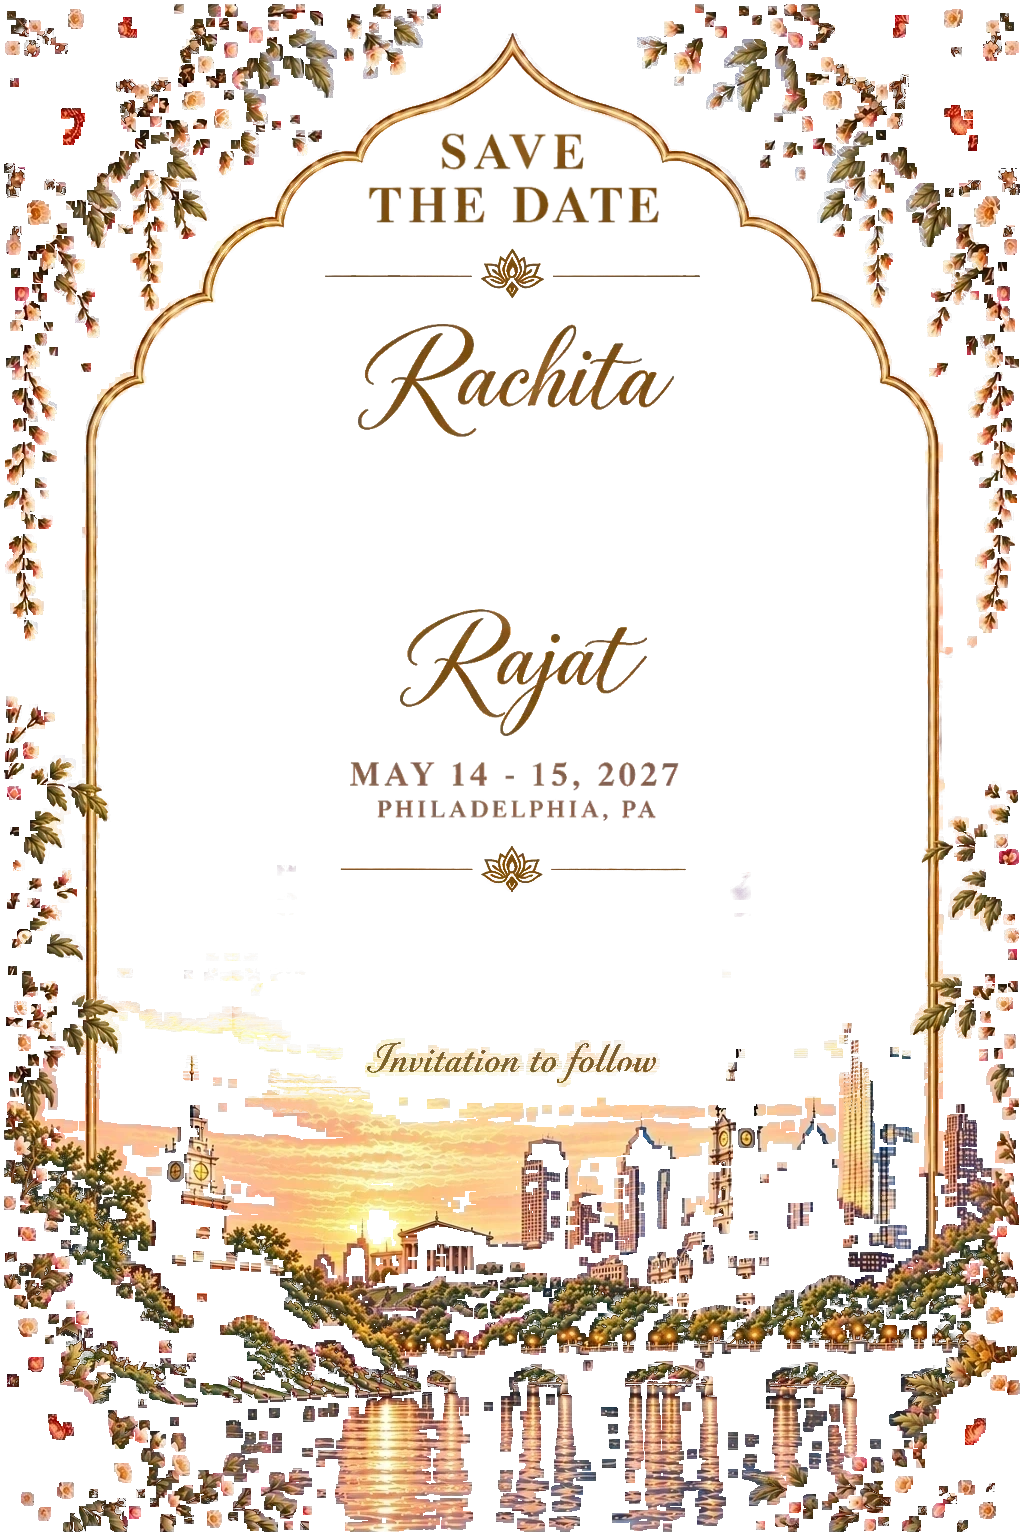
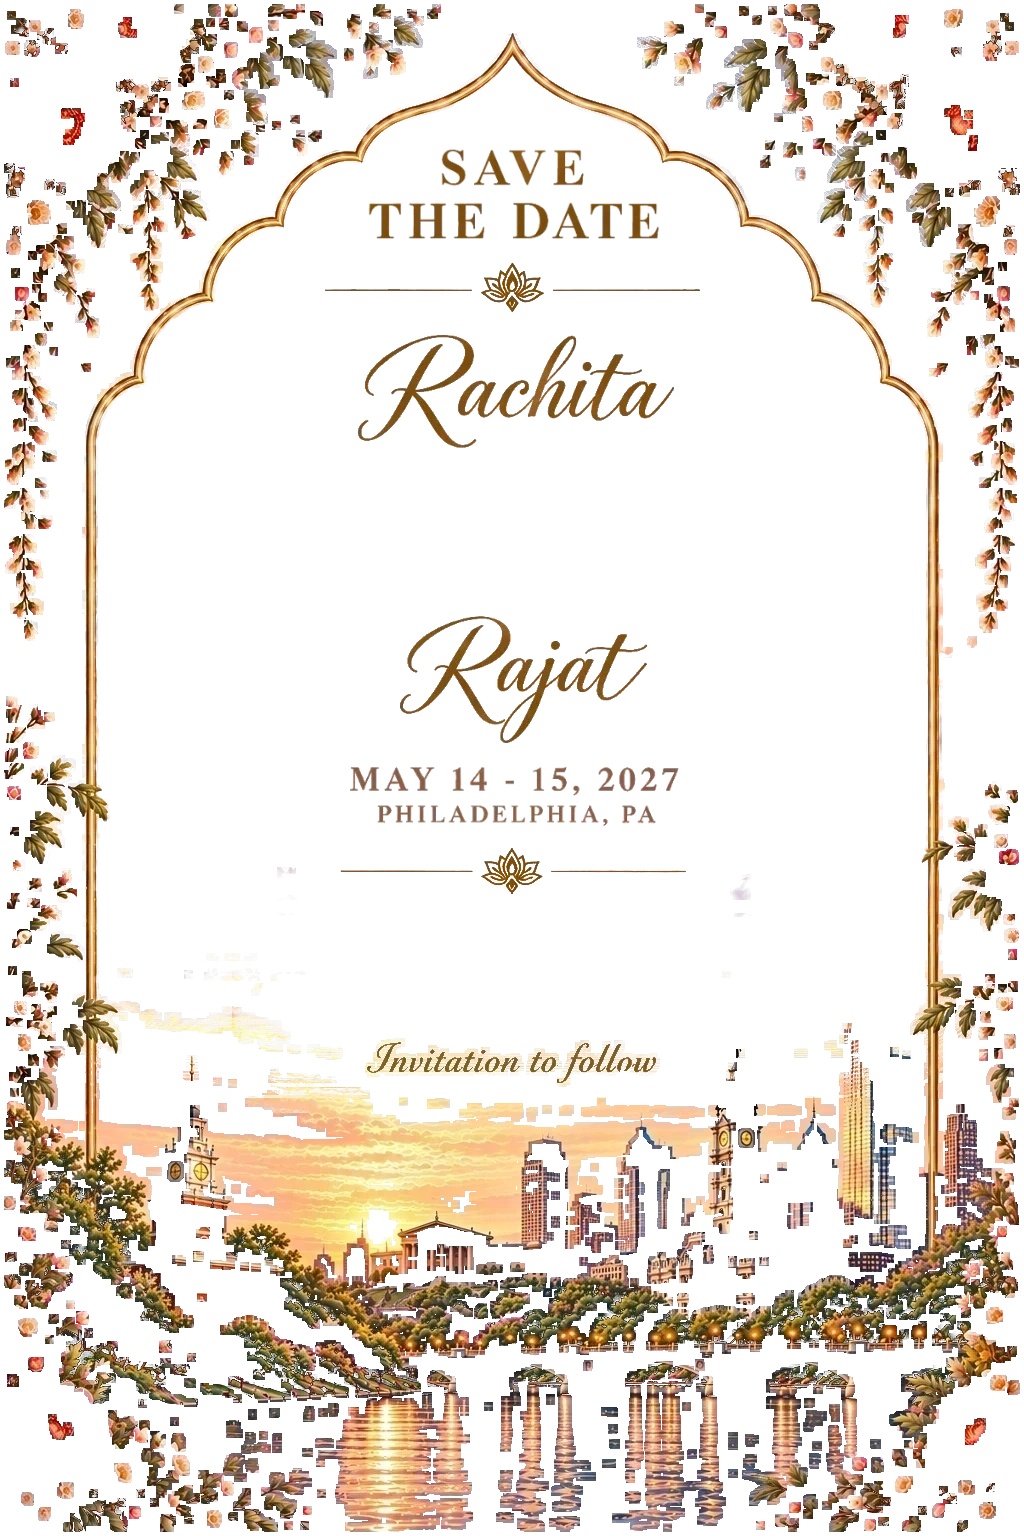
A little more room above "Save the Date"
Title down 16 px (about 41 px below the arch, was 25), everything below
re-spaced evenly to the countdown, ~25 px apart: upper divider down 14 px,
Rachita 11, bow 9, Rajat 7, date and place 5, lower divider 2.
Artwork renamed save-the-date-v9.png.

Changed region(s): [[0.3438, 0.0625, 0.6562, 0.3125], [0.3438, 0.375, 0.6562, 0.5938]]

diff --git a/index.html b/index.html
@@ -6,7 +6,7 @@
     <meta name="theme-color" content="#eac5bb" />
     <meta name="description" content="Save the date for Rachita and Rajat, May 14–15, 2027, in Philadelphia, Pennsylvania." />
     <meta name="robots" content="noindex, nofollow" />
-    <link rel="preload" as="image" href="./save-the-date-v8.png" fetchpriority="high" />
+    <link rel="preload" as="image" href="./save-the-date-v9.png" fetchpriority="high" />
     <title>Rachita & Rajat · Save the Date</title>
   </head>
   <body>

diff --git a/src/BowTie.tsx b/src/BowTie.tsx
@@ -7,7 +7,7 @@ import './bow.css';
 const ART = { width: 1024, height: 1536 };
 // 20% larger than first placed, centred in the gap between the names (moved
 // up with the evenly re-spaced lettering)
-const BOW = { x: 434.55, y: 463, width: 170.4 };
+const BOW = { x: 434.55, y: 472, width: 170.4 };
 const SCALE = BOW.width / BOW_SIZE.width;
 // the canvas just covers the finished bow, with a little room for the settle
 const VIEW = { x0: -6, x1: 204, y0: -6, y1: 143 };

diff --git a/src/styles.css b/src/styles.css
@@ -23,7 +23,7 @@ body { overflow-x: hidden; }
   position: fixed;
   z-index: -1;
   inset: -48px;
-  background: linear-gradient(#efd5cc38, #b4768938), url('/save-the-date-v8.png') center / cover no-repeat;
+  background: linear-gradient(#efd5cc38, #b4768938), url('/save-the-date-v9.png') center / cover no-repeat;
   filter: blur(30px) saturate(.8);
   transform: scale(1.04);
   pointer-events: none;

diff --git a/src/App.tsx b/src/App.tsx
@@ -5,7 +5,7 @@ import { Countdown } from './Countdown';
 import { MusicToggle } from './MusicToggle';
 import { Soundtrack } from './soundtrack';
 
-const imageUrl = `${import.meta.env.BASE_URL}save-the-date-v8.png`;
+const imageUrl = `${import.meta.env.BASE_URL}save-the-date-v9.png`;
 const soundtrack = new Soundtrack();
 
 export function App() {

diff --git a/README.md b/README.md
@@ -15,7 +15,7 @@ Open the URL printed by Vite. `npm run build` creates a production site in `dist
 
 1. Blurred copy of the artwork behind the card.
 2. The approved envelope artwork, centred at about a quarter of the screen area (`src/EnvelopeIntro.tsx`). It is split into three layers in `src/assets/`: the body (with the paper under the flap painted in), the flap with its gold border and filigree, and the flap's resting shadow. The flap hinges on the envelope's top edge and flips open.
-3. The artwork PNG (`public/save-the-date-v8.png`): the sky inside the arch and its clouds come from the colour reference, the lettering uses its antique-gold and gold-brown tones, and the printed countdown box is retouched out. "SAVE THE DATE" is at 76.5% of its painted size (90%, then 85%) and sits about 25 px below the arch. The date and "PHILADELPHIA, PA" lines are at 85% of their painted size, and everything between the title and the countdown (the lotus dividers, names, bow, date and place) is evenly re-spaced, about 27 px apart, down to the countdown. "AND" between the names is replaced by a flowering-vine bow, and the names are at 75% size and spaced apart to make room for it. The bow is not baked into the PNG: `src/BowTie.tsx` and `src/animation/bowTie.ts` animate it forming in place (knot, then loops unfurling, then tails) once the invitation is fully visible, then show the approved painting (`src/assets/bow/bow.png`) in its exact place. On top, the live SVG countdown uses the original design at 80% size.
+3. The artwork PNG (`public/save-the-date-v9.png`): the sky inside the arch and its clouds come from the colour reference, the lettering uses its antique-gold and gold-brown tones, and the printed countdown box is retouched out. "SAVE THE DATE" is at 76.5% of its painted size (90%, then 85%) and sits about 41 px below the arch. The date and "PHILADELPHIA, PA" lines are at 85% of their painted size, and everything between the title and the countdown (the lotus dividers, names, bow, date and place) is evenly re-spaced, about 25 px apart, down to the countdown. "AND" between the names is replaced by a flowering-vine bow, and the names are at 75% size and spaced apart to make room for it. The bow is not baked into the PNG: `src/BowTie.tsx` and `src/animation/bowTie.ts` animate it forming in place (knot, then loops unfurling, then tails) once the invitation is fully visible, then show the approved painting (`src/assets/bow/bow.png`) in its exact place. On top, the live SVG countdown uses the original design at 80% size.
 4. A WebGL layer (`src/animation/ambient.ts`) that redraws the card each frame. Water ripples through layered drifting noise, and its existing golden reflections shimmer as independent horizontal streaks. The edge flowers and leaves sway on a slow 20 s breeze (±3 screen px at the tips), anchored at the card's edges, while a frame-only mask (`arch.webp`) keeps the gold arch still. The whole sky drifts slowly beneath the lettering, lotus dividers and arch line, which are redrawn on top. The maps it uses are in `src/assets/ambient/`. Without WebGL, the still painting shows.
 5. Lightweight canvas petals falling across the card (`src/animation/petals.ts`).
 
